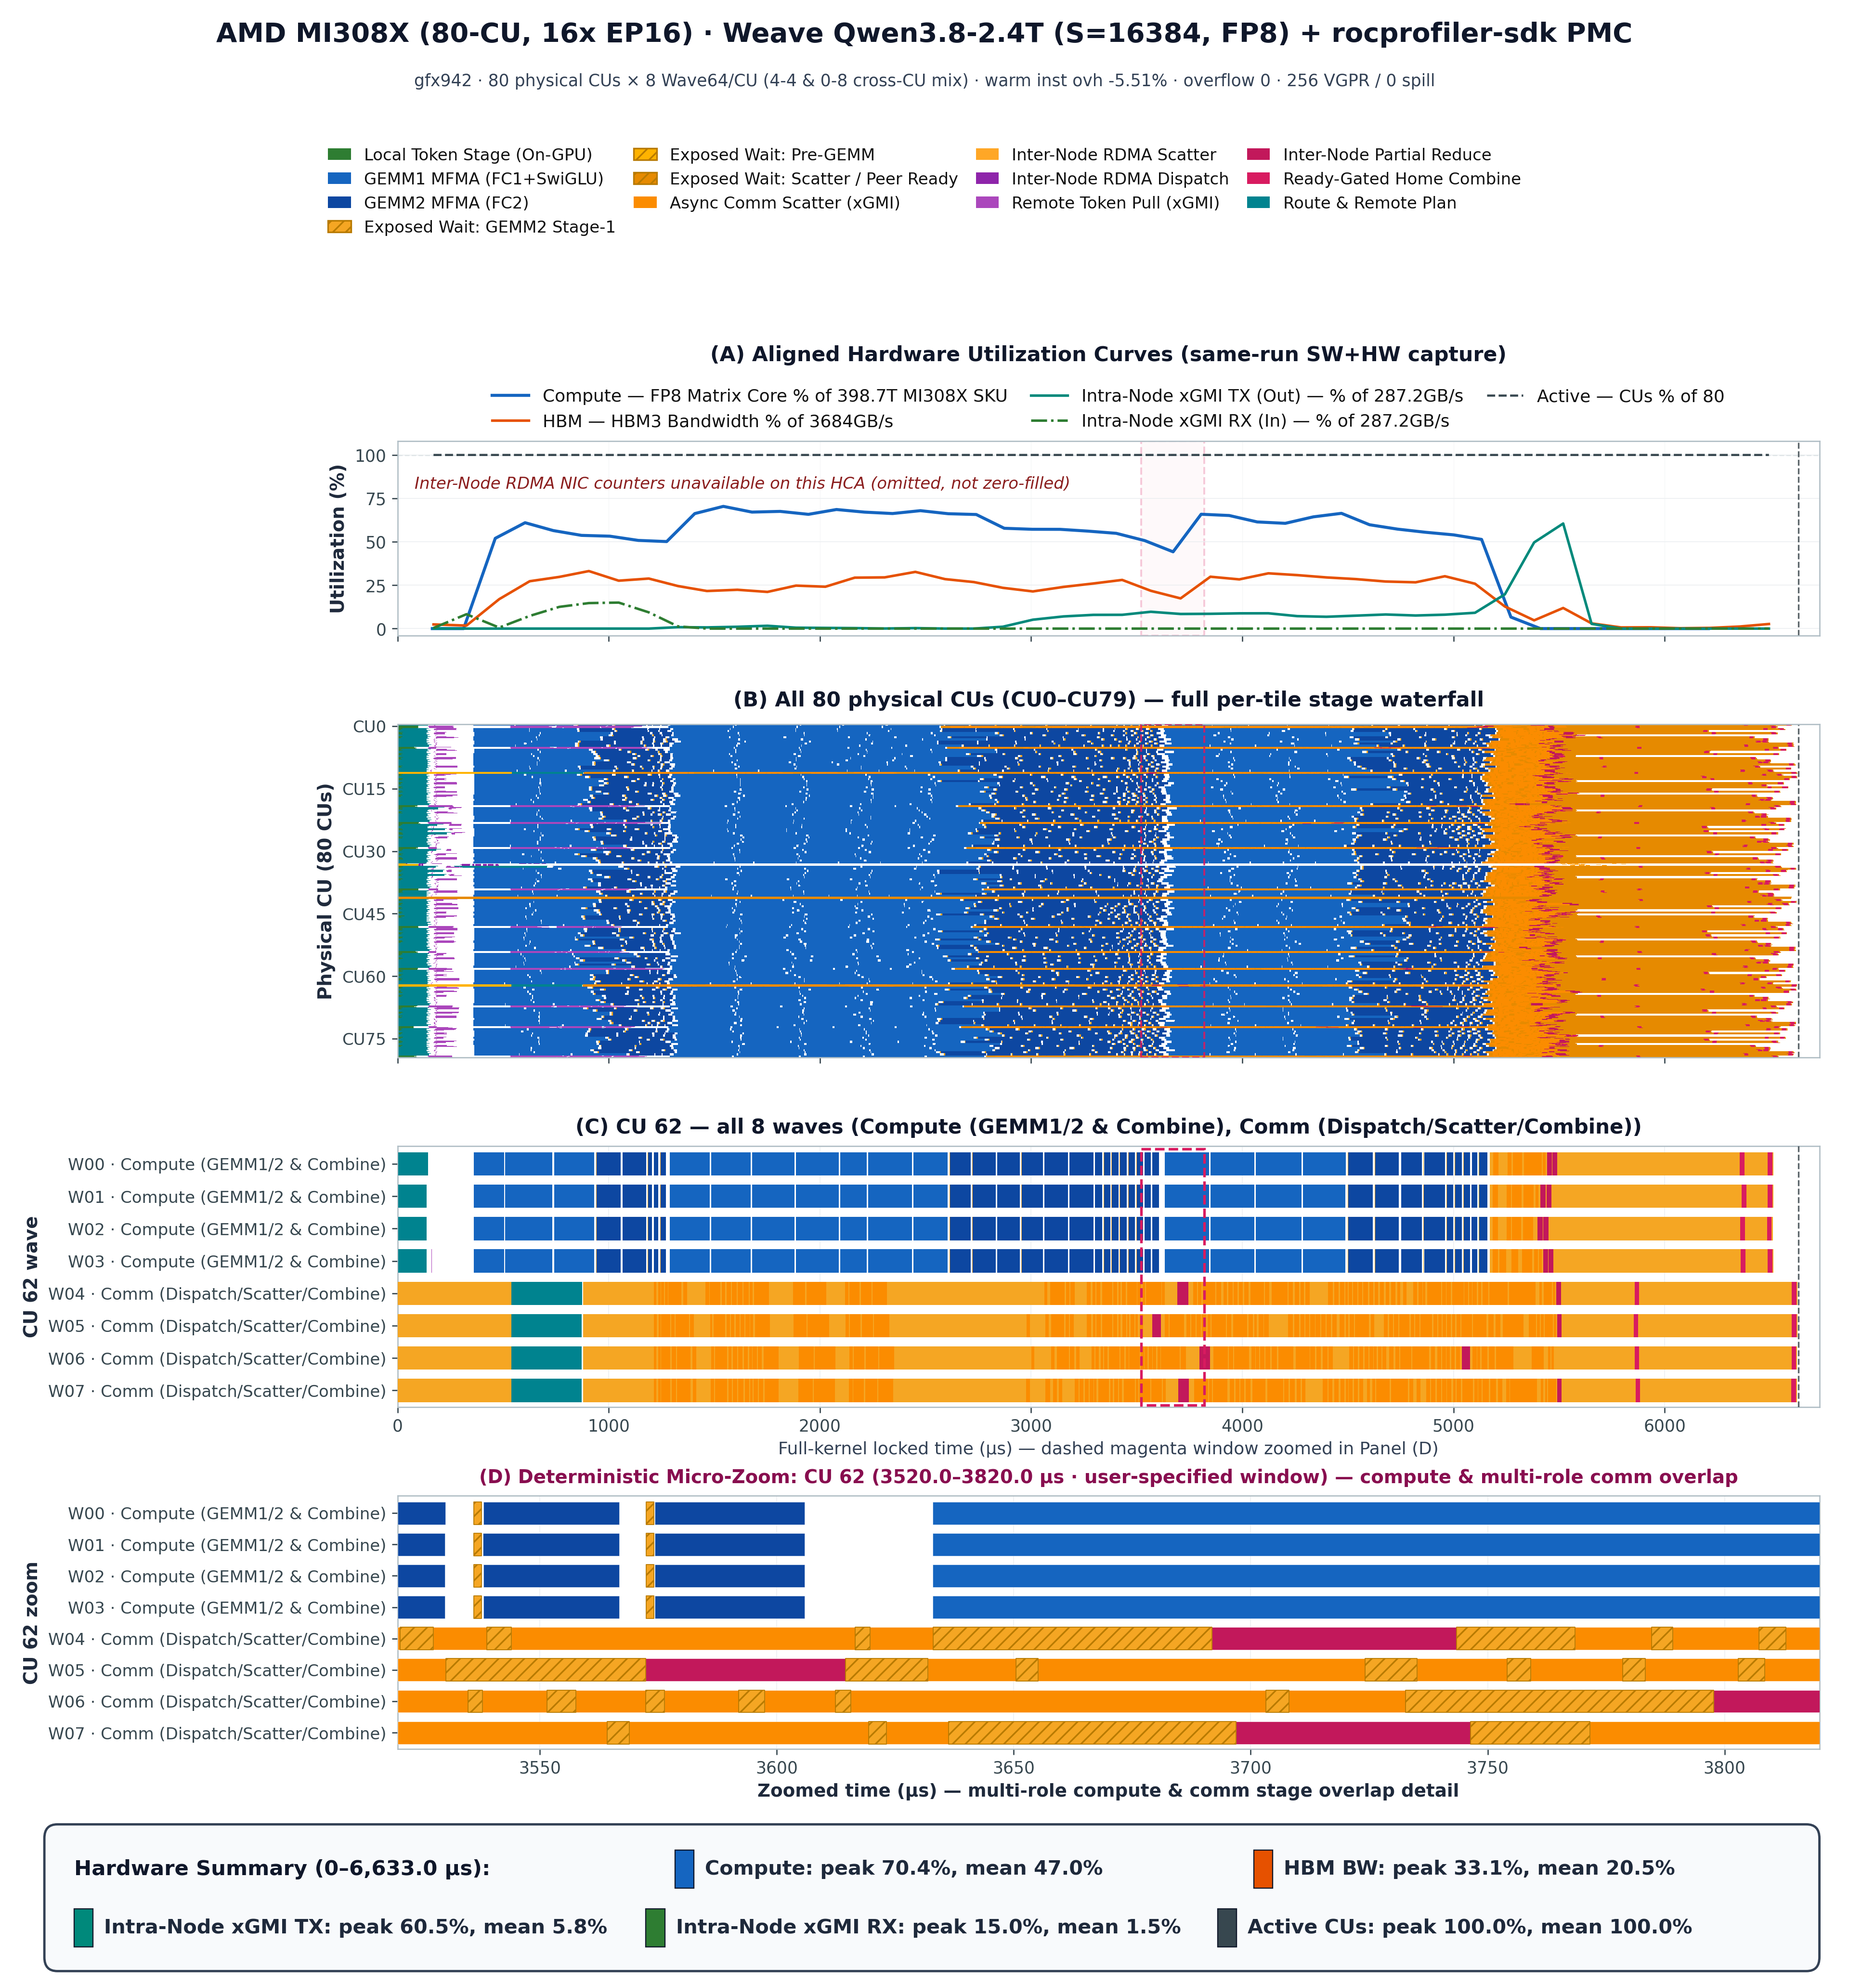
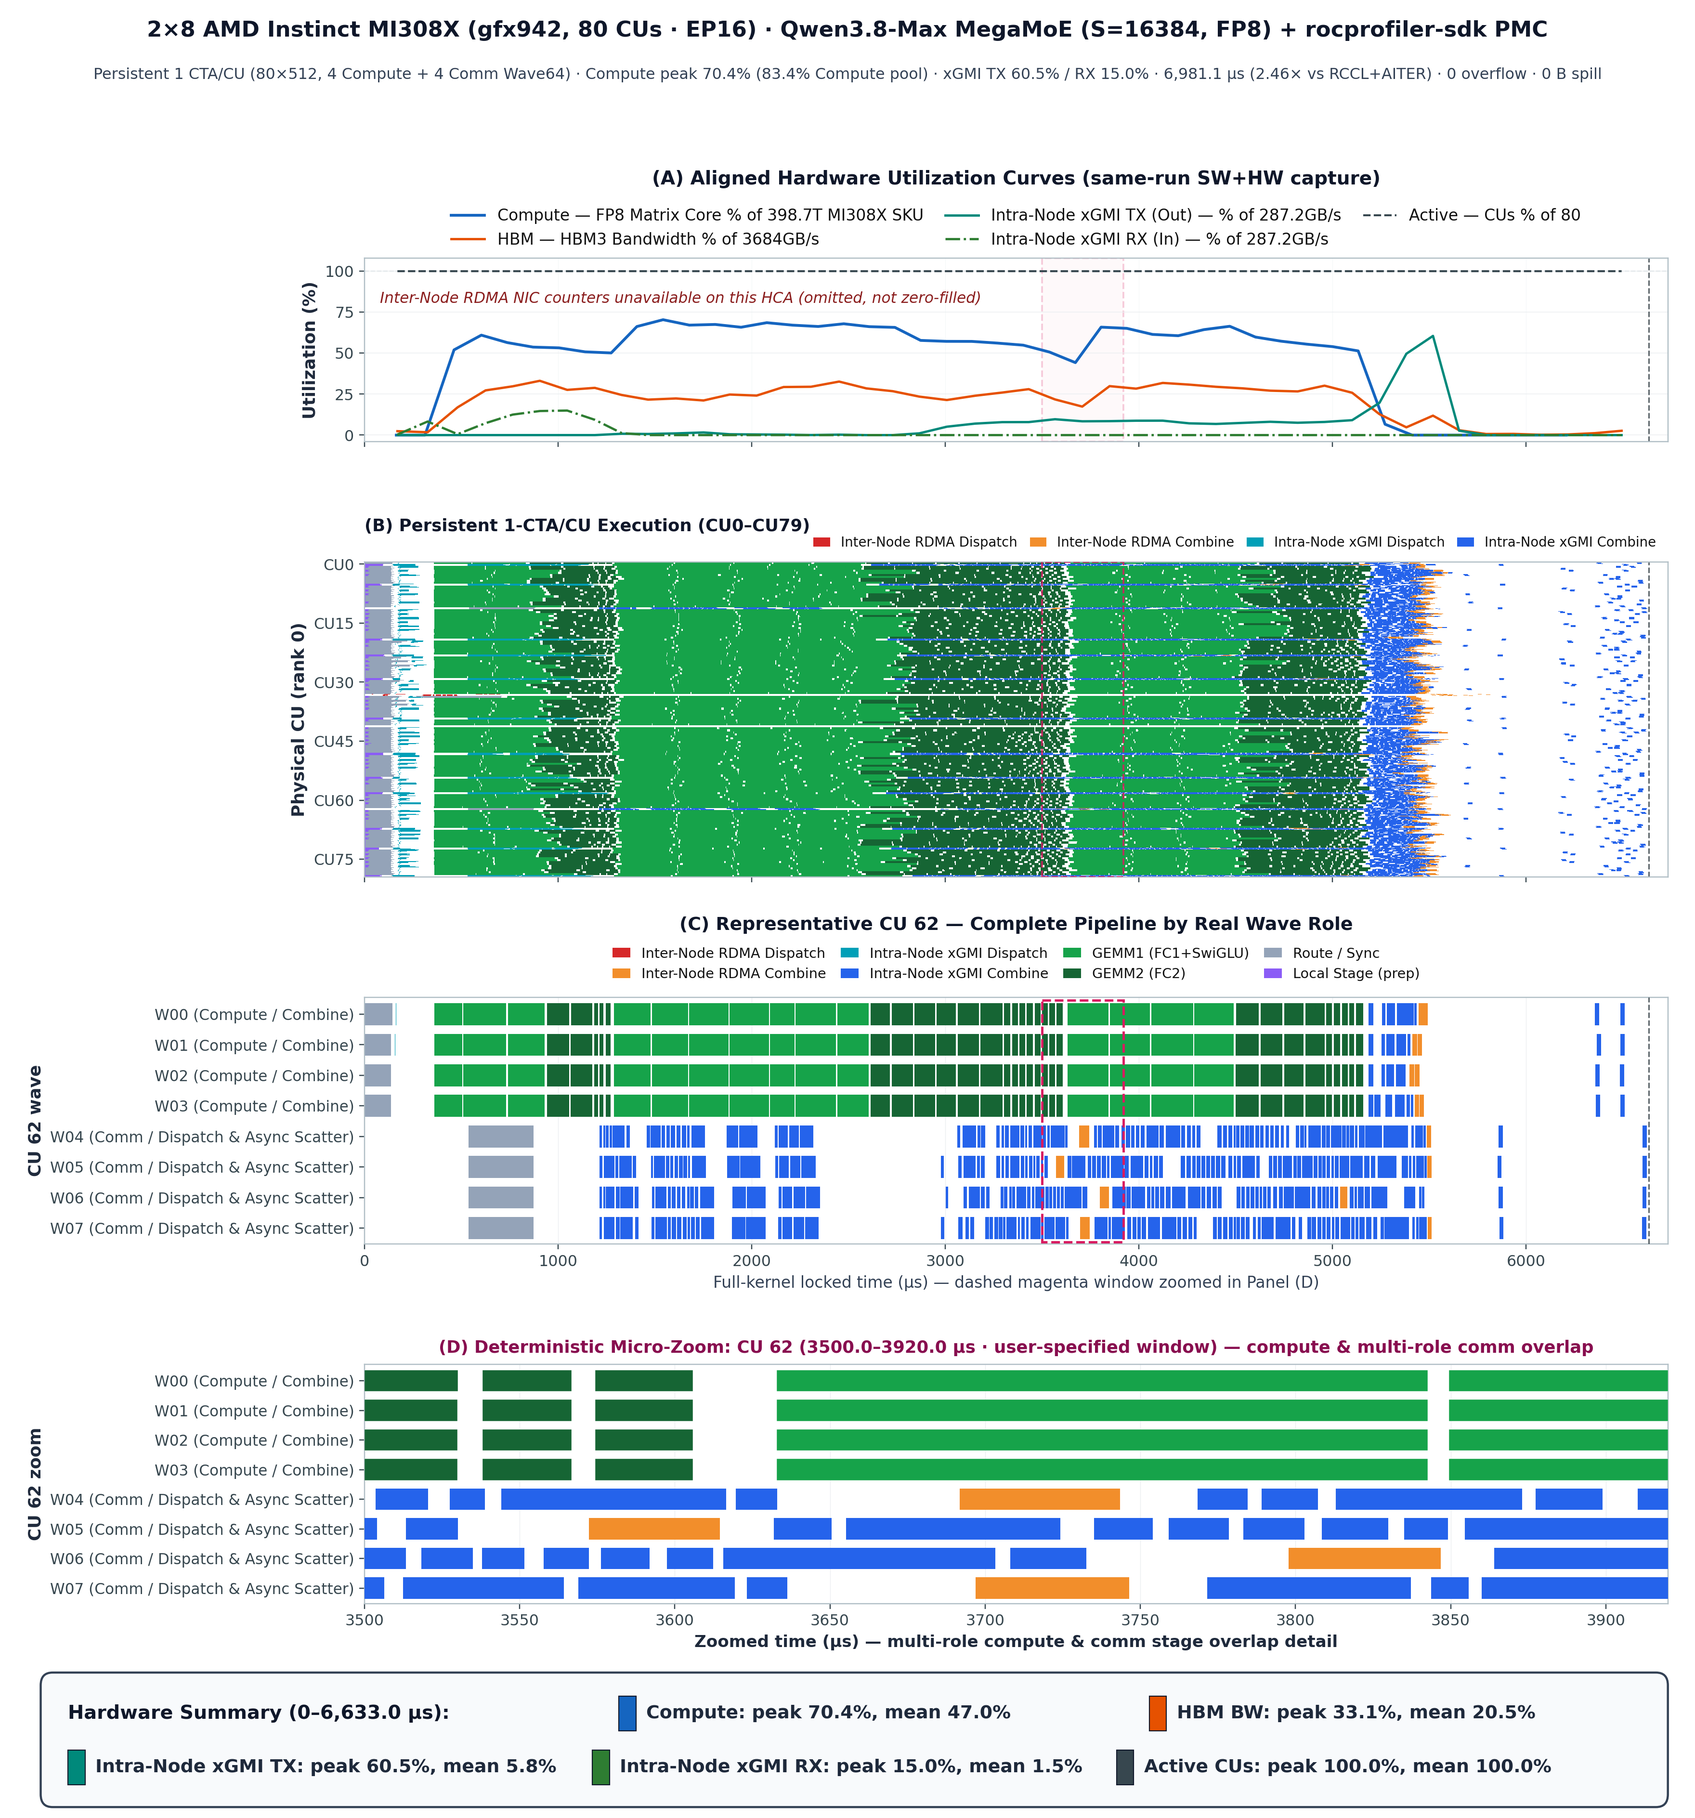
docs(mi308x): unify both AMD 4-panel timelines with HW summary cards, dual-fabric colors, and CU0-CU79 axes

diff --git a/weaveprof/viz.py b/weaveprof/viz.py
@@ -1759,7 +1759,7 @@ def render_swhw_overview_png(
     if has_zoom:
         heights.append(panel_d_h)
     fig = plt.figure(figsize=(fig_w, fig_h), facecolor="#FFFFFF")
-    gs = fig.add_gridspec(len(heights), 1, height_ratios=heights, hspace=0.44 if dual_fabric else (0.39 if has_zoom else 0.34))
+    gs = fig.add_gridspec(len(heights), 1, height_ratios=heights, hspace=0.49 if dual_fabric else (0.39 if has_zoom else 0.34))
     idx_g = 0
     ax_hw = fig.add_subplot(gs[idx_g]) if has_hw else None
     if has_hw:
@@ -2126,23 +2126,30 @@ def render_swhw_overview_png(
     yt = list(range(0, n_sms, step))
     if n_sms > 1 and ((n_sms - 1) - yt[-1]) >= max(2, step // 2):
         yt.append(n_sms - 1)
+    dense_cu_idx = bool(is_amd and len(sms) == 80 and sms and sms[-1] >= 80)
     ax_sm.set_yticks(yt)
-    ax_sm.set_yticklabels([f"{unit_nm}{sms[i]}" for i in yt] if sms else [f"{unit_nm}0"], fontsize=10.2)
+    ax_sm.set_yticklabels(
+        ([f"{unit_nm}{i}" for i in yt] if dense_cu_idx else [f"{unit_nm}{sms[i]}" for i in yt])
+        if sms else [f"{unit_nm}0"],
+        fontsize=10.2,
+    )
     rank_tag = f" (rank {meta['rank']})" if meta.get("rank") is not None else f" ({len(sms)} {unit_nm}s)"
     ax_sm.set_ylabel(f"Physical {unit_nm}{rank_tag}", fontsize=11.6, fontweight="bold", color="#1E293B")
     if dual_fabric and panel_b_fabric_handles:
         b_mode_lbl = "Multi-CTA" if sm_cta_slots else f"Persistent 1-CTA/{unit_nm}"
         ax_sm.set_title(
-            f"(B) {b_mode_lbl} Execution Across All {len(sms)} Physical {unit_nm}s",
-            fontsize=12.0, fontweight="bold", color="#0F172A", loc="left", pad=21,
+            f"(B) {b_mode_lbl} Execution ({unit_nm}0–{unit_nm}{len(sms)-1})",
+            fontsize=11.6, fontweight="bold", color="#0F172A", loc="left", pad=21,
         )
         ax_sm.legend(
             handles=panel_b_fabric_handles, loc="lower right", bbox_to_anchor=(1.0, 1.002),
-            ncol=4, frameon=False, fontsize=9.4, handlelength=1.30, columnspacing=1.05,
+            ncol=4, frameon=False, fontsize=9.0, handlelength=1.25, columnspacing=0.95,
         )
     else:
+        u_hi = (len(sms) - 1) if dense_cu_idx else (sms[-1] if sms else 0)
+        u_lo = 0 if dense_cu_idx else (sms[0] if sms else 0)
         ax_sm.set_title(
-            f"(B) All {len(sms)} physical {unit_nm}s ({unit_nm}{sms[0]}–{unit_nm}{sms[-1]}) — full per-tile stage waterfall"
+            f"(B) All {len(sms)} physical {unit_nm}s ({unit_nm}{u_lo}–{unit_nm}{u_hi}) — full per-tile stage waterfall"
             if sms else f"(B) Physical {unit_nm} timeline",
             fontsize=12.8, fontweight="bold", color="#0F172A", pad=11,
         )
@@ -2184,13 +2191,16 @@ def render_swhw_overview_png(
         ax_wp.set_yticklabels(c_yticks, fontsize=yt_fs)
         ax_wp.set_ylabel(f"{unit_nm} {rep_sm} {lane_nm}", fontsize=11.6, fontweight="bold", color="#1E293B")
         if dual_fabric and panel_c_handles:
+            n_c_cols = 4 if len(panel_c_handles) > 5 else len(panel_c_handles)
+            n_c_rows = (len(panel_c_handles) + n_c_cols - 1) // max(1, n_c_cols)
             ax_wp.set_title(
                 f"(C) Representative {unit_nm} {rep_sm} — Complete Pipeline by Real {lane_nm.title()} Role",
-                fontsize=12.6, fontweight="bold", color="#0F172A", pad=34,
+                fontsize=12.4, fontweight="bold", color="#0F172A", pad=46 if n_c_rows >= 2 else 32,
             )
             ax_wp.legend(
-                handles=panel_c_handles, loc="upper center", bbox_to_anchor=(0.5, 1.155),
-                ncol=min(len(panel_c_handles), 8), frameon=False, fontsize=9.8, handlelength=1.30, columnspacing=1.05,
+                handles=panel_c_handles, loc="upper center",
+                bbox_to_anchor=(0.5, 1.255 if n_c_rows >= 2 else 1.155),
+                ncol=n_c_cols, frameon=False, fontsize=9.4, handlelength=1.30, columnspacing=1.05,
             )
         else:
             role_names = ", ".join(dict.fromkeys(r for _, r in rep_warps))
@@ -2234,7 +2244,7 @@ def render_swhw_overview_png(
             rep_cta_slot=rep_cta_slot,
             warp_to_y=warp_to_y,
             span_color_fn=_span_color,
-            dual_fabric=False,
+            dual_fabric=dual_fabric,
             x_lim=(z0, z1),
             k_dur=k_dur,
             is_zoom=True,
@@ -2276,7 +2286,10 @@ def render_swhw_overview_png(
     _nasy = max(1, (len(async_depth_handles) + 8) // 9) if (not dual_fabric and bool(active_async_engines)) else 0
     extra_leg = (0.0215 * max(0, _ntop - 1)) + ((0.034 + 0.0205 * max(0, _nasy - 1)) if _nasy > 0 else 0.0)
     if has_zoom:
-        top_m = min(0.842, 1.0 - 2.65 / fig_h) - extra_leg if has_hw else min(0.855, 1.0 - 2.20 / fig_h) - extra_leg
+        if dual_fabric:
+            top_m = 0.858 if has_hw else 0.875
+        else:
+            top_m = min(0.842, 1.0 - 2.65 / fig_h) - extra_leg if has_hw else min(0.855, 1.0 - 2.20 / fig_h) - extra_leg
     else:
         top_m = 0.840 if (has_hw and dual_fabric) else (min(0.790, 1.0 - 2.65 / fig_h) - extra_leg if has_hw else 0.818)
     show_hw_box = bool(hw_summary_items)
